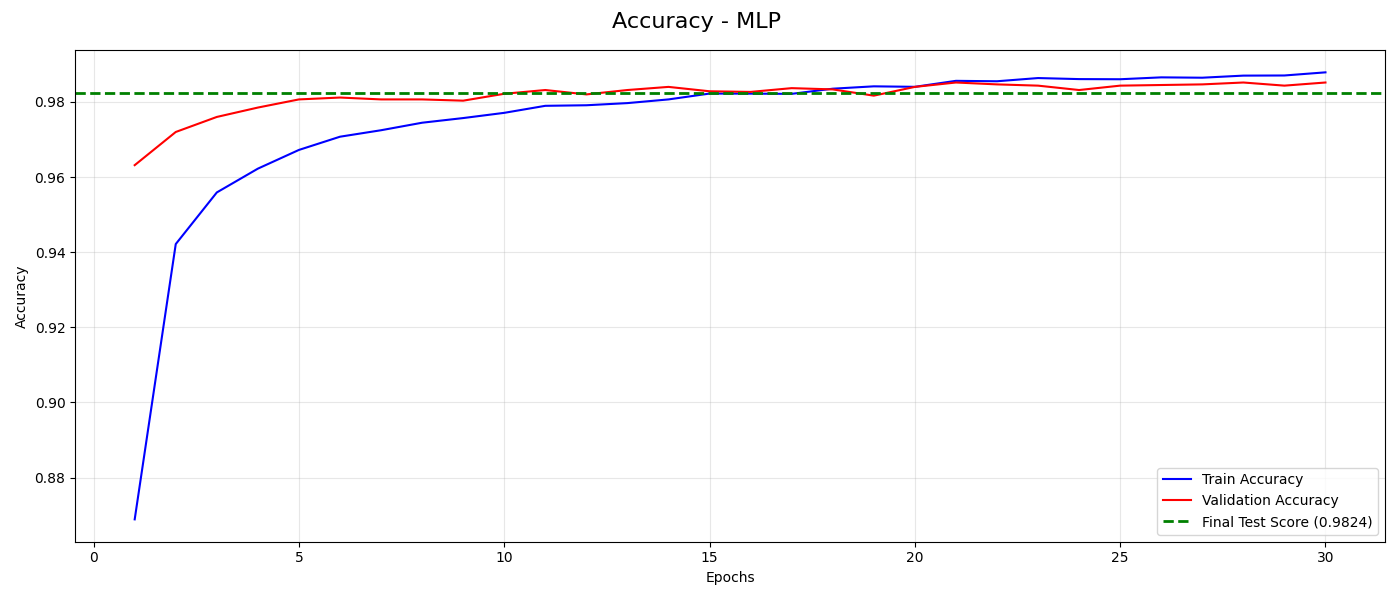
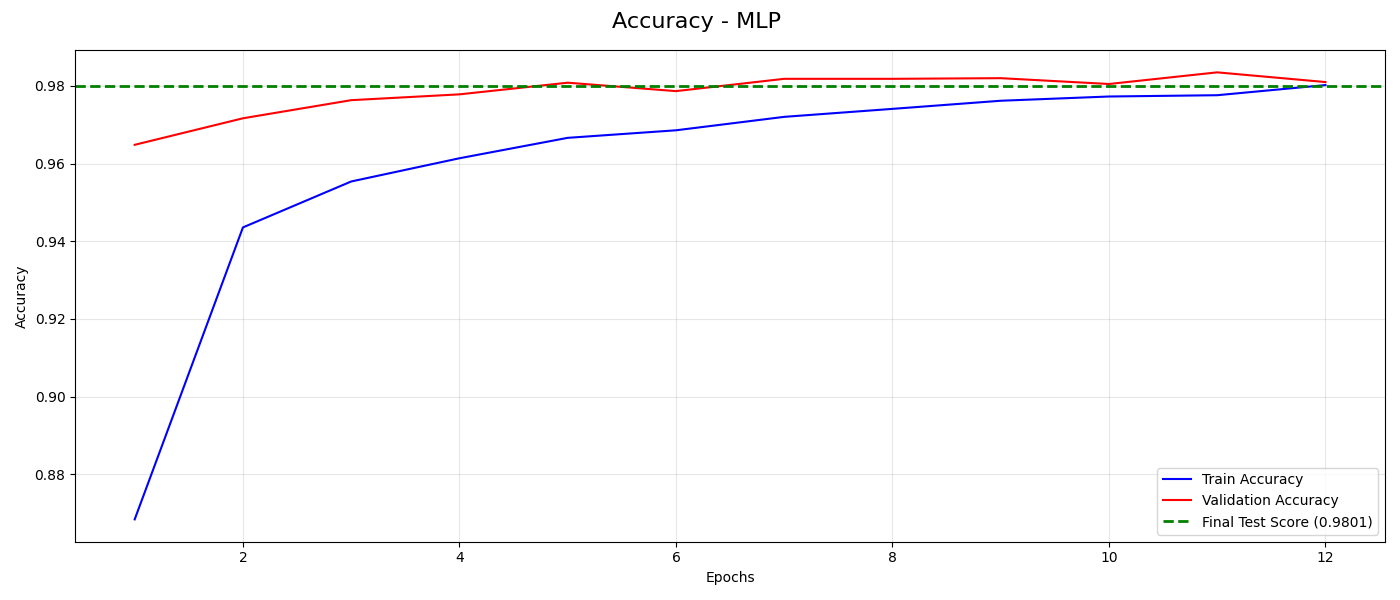
Dcumentation

diff --git a/src/MLP.py b/src/MLP.py
@@ -1,10 +1,11 @@
+import numpy as np
 import keras_tuner as kt
 from tensorflow import keras
 from keras.models import Sequential
 from keras.layers import Dense, Activation, Dropout
 from keras.datasets import mnist
 from sklearn.model_selection import train_test_split
-from src.utils import plot_accuracy, plot_loss
+from src.utils import plot_accuracy, plot_loss, plot_confusion_matrix
 
 
 # Hyperparameters
@@ -13,23 +14,36 @@ EPOCHS = 30
 
 
 def build_model(hp):
+    """Build model architecture for hyperparameter tunning
+
+    Function that defines the general structure of a CNN with the location of key structural hyperparameters that need to be tunned to find the most optima model
+    Args:
+        hp (keras_tunner.HyperParameters): HyperParameters object used to define the search space for the model
+
+    Returns:
+        model: compiled keras model with initial hyperparameters, ready for training
+    """
+    # Define shape of inputs (features) and number of expected outputs (labels)
     input_size = (784,)
     num_labels = 10
 
+    # Initialize model selection
     model = Sequential()
 
     # Input Layer
     model.add(keras.Input(shape=input_size))
 
-    # Hidden Layer 1
+    # Hidden Layer 1:
+    # HP to tune: number of units (32 - 512), dropout rate (0.0 - 0.5)
     hp_units_1 = hp.Int("units_1", min_value=32, max_value=512, step=32)
     model.add(Dense(units=hp_units_1))
     model.add(Activation("relu"))
-
     hp_dropout = hp.Float("dropout", min_value=0.0, max_value=0.5, step=0.1)
     model.add(Dropout(hp_dropout))
 
-    # Hidden Layer 2
+    # Hidden Layer 2:
+    # HP to tune: number of units (32 - 512)
+    # Same Dropout
     hp_units_2 = hp.Int("units_2", min_value=32, max_value=512, step=32)
     model.add(Dense(hp_units_2))
     model.add(Activation("relu"))
@@ -39,8 +53,10 @@ def build_model(hp):
     model.add(Dense(num_labels))
     model.add(Activation("softmax"))
 
-    # Model Training
+    # Learning Rate: hyperparameter = learning rate
     hp_eta = hp.Choice("learning_rate", values=[0.01, 0.001, 0.0001])
+
+    # Compile entire model
     model.compile(
         loss="sparse_categorical_crossentropy",
         optimizer=keras.optimizers.Adam(learning_rate=hp_eta),
@@ -51,6 +67,21 @@ def build_model(hp):
 
 
 def model_tuner(X_train, y_train, X_val, y_val, epochs):
+    """Tune hyperparameters for most optimal CNN
+
+    This funtion iterates through all the hyperparameters defined in the model. Tests the performance on the validation set (accuracy) and chooses the parameters that produce the highest accuracy as the best model
+
+    Args:
+        X_train np.array: training features
+        y_train np.array: training labels
+        X_val np.array: validation features
+        y_val np.array: validation labels
+        epochs int: number od iterations
+
+    Returns:
+        best_model: model with the best hyperparameters
+    """
+    # Initialize Random Search with the given model structure and other parameters
     tuner = kt.RandomSearch(
         build_model,
         objective="val_accuracy",
@@ -60,6 +91,7 @@ def model_tuner(X_train, y_train, X_val, y_val, epochs):
         project_name="mlp_tuning",
     )
 
+    # Iterative process to find the most optimal model
     tuner.search(
         X_train,
         y_train,
@@ -70,7 +102,6 @@ def model_tuner(X_train, y_train, X_val, y_val, epochs):
 
     best_hps = tuner.get_best_hyperparameters(num_trials=1)[0]
 
-    print("\n===== Best Hyperparameters Found =====")
     print(f"Units Layer 1: {best_hps.get('units_1')}")
     print(f"Units Layer 2: {best_hps.get('units_2')}")
     print(f"Dropout Rate: {best_hps.get('dropout')}")
@@ -108,12 +139,29 @@ def mlp_network():
 
     # Model Trainig
     print("\n========= Training Best Model =========")
-    history = mlp.fit(X_train, y_train, epochs=EPOCHS, batch_size=BATCH_SIZE, validation_split=0.1, verbose=1)
+    history = mlp.fit(
+        X_train,
+        y_train,
+        epochs=EPOCHS,
+        batch_size=BATCH_SIZE,
+        validation_split=0.1,
+        callbacks=[keras.callbacks.EarlyStopping(patience=5, restore_best_weights=True)],
+        verbose=1,
+    )
+
+    # Model Prediction
+    mlp_pred = mlp.predict(X_test)
+    y_pred = np.argmax(mlp_pred, axis=1)
 
     # Model Evaluation
     print("\n========= Best MLP Performance =========")
     test_loss, test_acc = mlp.evaluate(X_test, y_test)
+    print(f"Train Accuracy: {history.history['accuracy'][-1]:.4f}")
+    print(f"Validation Accuracy: {history.history['val_accuracy'][-1]:.4f}")
     print(f"Test Accuracy: {test_acc:.4f}")
+
+    print(f"Train Loss: {history.history['loss'][-1]:.4f}")
+    print(f"Validation Loss: {history.history['val_loss'][-1]:.4f}")
     print(f"Test Loss: {test_loss:.4f}")
 
     # Visualize the model
@@ -121,14 +169,23 @@ def mlp_network():
         history.history["accuracy"],
         history.history["val_accuracy"],
         test_acc,
-        EPOCHS,
+        len(history.history["accuracy"]),
         "Accuracy - MLP ",
         "mlp_accuracy",
     )
-    plot_loss(history.history["loss"], history.history["val_loss"], test_loss, EPOCHS, "Loss - MLP", "mlp_loss")
+    plot_loss(
+        history.history["loss"],
+        history.history["val_loss"],
+        test_loss,
+        len(history.history["loss"]),
+        "Loss - MLP",
+        "mlp_loss",
+    )
+
+    plot_confusion_matrix(y_mnist=y_test, y_pred=y_pred, title="CNN - Confusion Matrix", file_name="mlp_cm")
 
     # Save model
-    mlp.save("/models/mlp.h5")
+    mlp.save("models/mlp.h5")
     print("Model Saved")
 
 

diff --git a/src/CNN.py b/src/CNN.py
@@ -34,7 +34,7 @@ def build_model(hp):
     model.add(keras.Input(shape=input_shape))
 
     # Conv Layer 1:
-    # HP to tune: finters (32-96), kernel size (3x3 or 5x5)
+    # HP to tune: filters (32-96), kernel size (3x3 or 5x5)
     hp_filters_1 = hp.Int("filters_1", min_value=32, max_value=96, step=32)
     hp_kernel = hp.Choice("kernel_size", values=[3, 5])
     model.add(Conv2D(filters=hp_filters_1, kernel_size=hp_kernel, strides=1, padding="same", activation="relu"))
@@ -181,7 +181,7 @@ def cnn_network():
     y_pred = np.argmax(cnn_pred, axis=1)
 
     # Model Evaluation
-    print("\n========= Best MLP Performance =========")
+    print("\n========= Best CNN Performance =========")
     test_loss, test_acc = cnn.evaluate(X_test, y_test)
     print(f"Train Accuracy: {history.history['accuracy'][-1]:.4f}")
     print(f"Validation Accuracy: {history.history['val_accuracy'][-1]:.4f}")

diff --git a/src/test_usps.py b/src/test_usps.py
@@ -5,8 +5,8 @@ import matplotlib.pyplot as plt
 from sklearn.datasets import fetch_openml
 from sklearn.metrics import accuracy_score, confusion_matrix, ConfusionMatrixDisplay
 
-MLP_PATH = "models/mlp.h5"
-CNN_PATH = "models/cnn.h5"
+MLP_PATH = "models/mlp_1.h5"
+CNN_PATH = "models/cnn_1.h5"
 
 
 def load_and_preprocess_usps():
